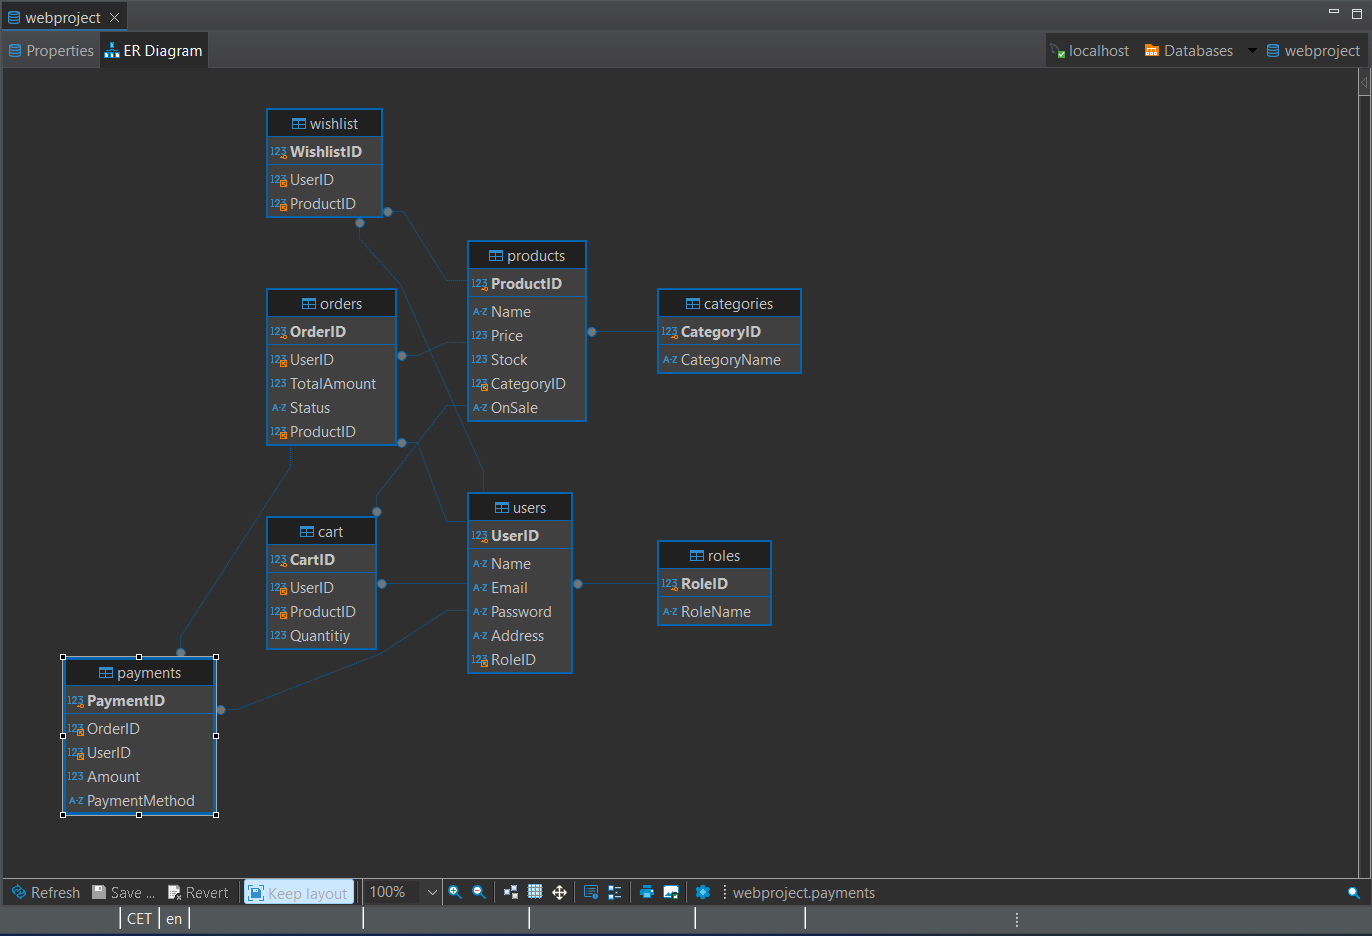
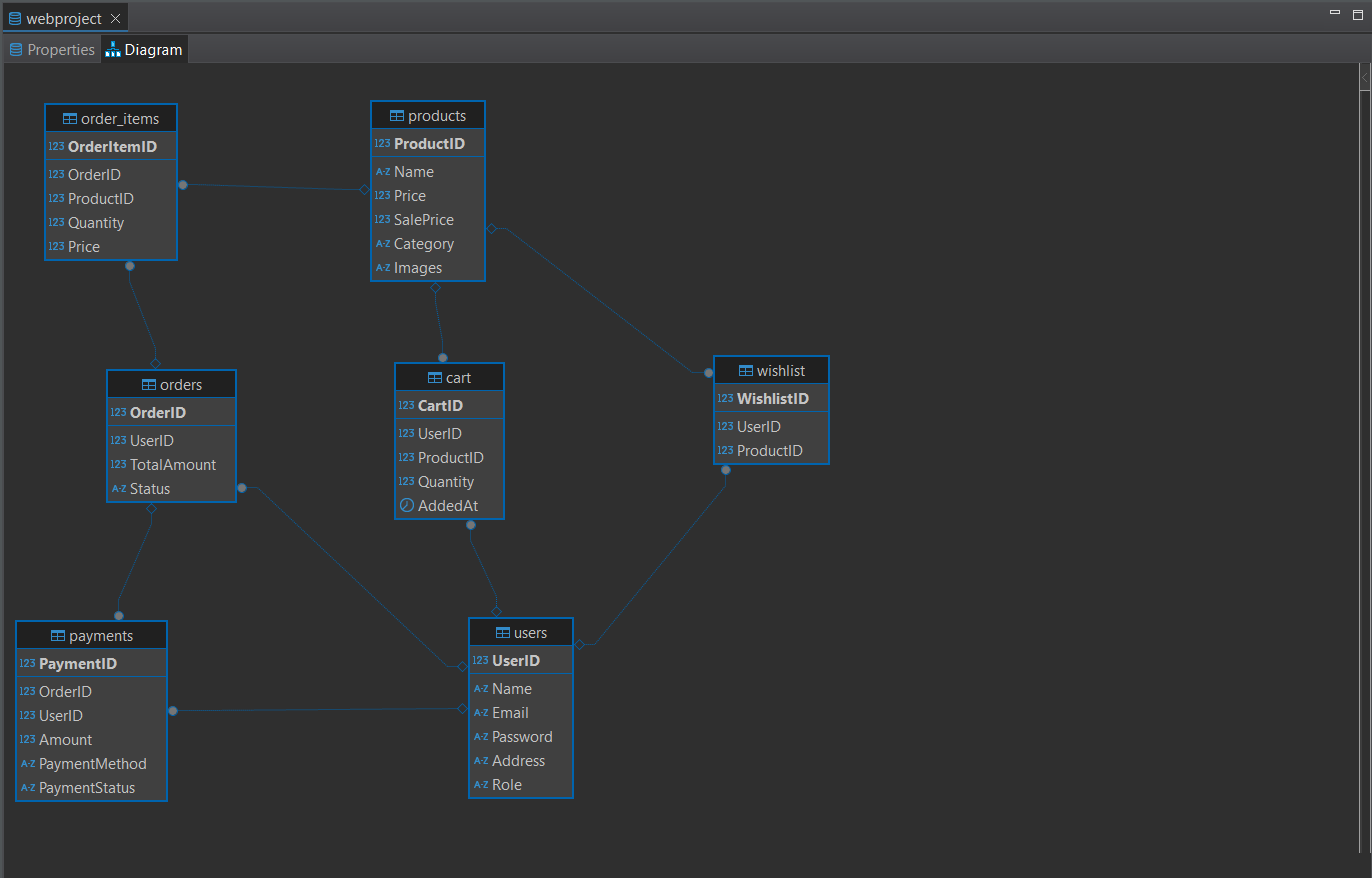
a

diff --git a/frontend/views/register.html b/frontend/views/register.html
@@ -2,22 +2,22 @@
     <div class="d-flex justify-content-center align-items-center min-vh-100 mt-5 mb-5">
         <div class="card p-4 shadow-lg" style="width: 400px;">
             <h3 class="text-center mb-4">Register</h3>
-            <form id="registerForm" onsubmit="handleRegister(event)">
+            <form id="registerForm" onsubmit="handleRegister(event)" method="post">
                 <div class="mb-3">
                     <label for="registerName" class="form-label">Name</label>
-                    <input type="text" class="form-control input-focus" id="registerName" required>
+                    <input type="text" class="form-control input-focus" id="registerName" name="Name" required>
                 </div>
                 <div class="mb-3">
                     <label for="registerEmail" class="form-label">Email</label>
-                    <input type="email" class="form-control input-focus" id="registerEmail" required>
+                    <input type="email" class="form-control input-focus" id="registerEmail" name="Email" required>
                 </div>
                 <div class="mb-3">
                     <label for="registerAddress" class="form-label">Address</label>
-                    <input type="text" class="form-control input-focus" id="registerAddress" required>
+                    <input type="text" class="form-control input-focus" id="registerAddress" name="Address" required>
                 </div>
                 <div class="mb-3">
                     <label for="password" class="form-label">Password</label>
-                    <input type="password" class="form-control input-focus" id="password" required>
+                    <input type="password" class="form-control input-focus" id="password" name="Password" required>
                 </div>
                 <div class="mb-3">
                     <label for="confirmPassword" class="form-label">Confirm Password</label>
@@ -26,7 +26,7 @@
                 </div>
                 <div class="mb-3">
                     <label for="registerRole" class="form-label">Role</label>
-                    <select class="form-select" id="registerRole" required onchange="toggleAdminPasswordField()">
+                    <select class="form-select" id="registerRole" name="Role" required onchange="toggleAdminPasswordField()">
                         <option value="Customer" selected>Customer</option>
                         <option value="Admin">Admin</option>
                     </select>

diff --git a/frontend/js/scripts.js b/frontend/js/scripts.js
@@ -469,11 +469,11 @@ function loadProductDetails(productId) {
 }
 
 function displayUserProfile() {
-    var user = JSON.parse(localStorage.getItem("user"));
-    document.getElementById("name").value = user.name;
-    document.getElementById("email").value = user.email;
-    document.getElementById("address").value = user.address;
-    document.getElementById("role").value = user.role;
+    const user = JSON.parse(localStorage.getItem("loggedInUser")) || {};
+    document.getElementById("name").value = user.name || '';
+    document.getElementById("email").value = user.email || '';
+    document.getElementById("address").value = user.address || '';
+    document.getElementById("role").value = user.role || '';
 }
 
 function handleRegister(event) {
@@ -533,19 +533,15 @@ function logout() {
     localStorage.removeItem('loggedInUser');
     resetProfile();
     updateNavBar();
-    window.location.reload();
+    window.location.href = 'index.html';
 }
 
 function resetProfile() {
-    const nameField = document.getElementById("name");
-    const emailField = document.getElementById("email");
-    const addressField = document.getElementById("address");
-    const roleField = document.getElementById("role");
-
-    if (nameField) nameField.value = '';
-    if (emailField) emailField.value = '';
-    if (addressField) addressField.value = '';
-    if (roleField) roleField.value = '';
+    const fields = ["name", "email", "address", "role"];
+    fields.forEach(fieldId => {
+        const field = document.getElementById(fieldId);
+        if (field) field.value = '';
+    });
 }
 
 function updateNavBar() {

diff --git a/backend/dao/BaseDao.php b/backend/dao/BaseDao.php
@@ -1,0 +1,52 @@
+<?php
+    require_once __DIR__ . "/config.php";
+
+    class BaseDao {
+        protected $table;
+        protected $connection;
+
+        public function __construct($table) {
+            $this->table = $table;
+            $this->connection = Database::connect();
+        }
+
+        public function getAll() {
+            $stmt = $this->connection->prepare("SELECT * FROM " . $this->table);
+            $stmt->execute();
+            return $stmt->fetchAll();
+        }
+
+        public function getById($id) {
+            $stmt = $this->connection->prepare("SELECT * FROM " . $this->table . " WHERE id = :id");
+            $stmt->bindParam(':id', $id);
+            $stmt->execute();
+            return $stmt->fetch();
+        }
+
+        public function insert($data) {
+            $columns = implode(", ", array_keys($data));
+            $placeholders = ":" . implode(", :", array_keys($data));
+            $sql = "INSERT INTO " . $this->table . " ($columns) VALUES ($placeholders)";
+            $stmt = $this->connection->prepare($sql);
+            return $stmt->execute($data);
+        }
+
+        public function update($id, $data) {
+            $fields = "";
+            foreach ($data as $key => $value) {
+                $fields .= "$key = :$key, ";
+            }
+            $fields = rtrim($fields, ", ");
+            $sql = "UPDATE " . $this->table . " SET $fields WHERE id = :id";
+            $stmt = $this->connection->prepare($sql);
+            $data['id'] = $id;
+            return $stmt->execute($data);
+        }
+
+        public function delete($id) {
+            $stmt = $this->connection->prepare("DELETE FROM " . $this->table . " WHERE id = :id");
+            $stmt->bindParam(':id', $id);
+            return $stmt->execute();
+        }
+    }
+?>

diff --git a/backend/dao/ProductsDao.php b/backend/dao/ProductsDao.php
@@ -1,0 +1,29 @@
+<?php
+    require_once 'BaseDao.php';
+    class ProductsDao extends BaseDao {
+        public function __construct() {
+            parent::__construct("products");
+        }
+
+        public function getByProductName($productName) {
+            $stmt = $this->connection->prepare("select * from products where ProductName = :ProductName");
+            $stmt->bindParam(':ProductName', $productName);
+            $stmt->execute();
+            return $stmt->fetch();
+        }
+
+        public function getByCategoryId($categoryId ) {
+            $stmt = $this->connection->prepare("select * from products where CategoryID = :CategoryID");
+            $stmt->bindParam(':CategoryID', $categoryId);
+            $stmt->execute();
+            return $stmt->fetchAll();
+        }
+
+        public function getByOnSale($onSale) {
+            $stmt = $this->connection->prepare("select * from products where OnSale = :OnSale");
+            $stmt->bindParam(':OnSale', $onSale);
+            $stmt->execute();
+            return $stmt->fetchAll();
+        }
+    }
+?>

diff --git a/backend/dao/config.php b/backend/dao/config.php
@@ -1,0 +1,28 @@
+<?php
+    class Database {
+        private static $host = 'localhost';
+        private static $dbName = 'webproject';
+        private static $username = 'root';
+        private static $password = 'Ammarudin';
+        private static $connection = null;
+
+        public static function connect() {
+            if (self::$connection === null) {
+                try {
+                    self::$connection = new PDO(
+                        "mysql:host=" . self::$host . ";dbname=" . self::$dbName,
+                        self::$username,
+                        self::$password,
+                        [
+                            PDO::ATTR_ERRMODE => PDO::ERRMODE_EXCEPTION,
+                            PDO::ATTR_DEFAULT_FETCH_MODE => PDO::FETCH_ASSOC
+                        ]
+                    );
+                } catch (PDOException $e) {
+                    die("Connection failed: " . $e->getMessage());
+                }
+            }
+            return self::$connection;
+        }
+    }
+?>

diff --git a/backend/dao/OrderItemsDao.php b/backend/dao/OrderItemsDao.php
@@ -1,0 +1,22 @@
+<?php
+    require_once 'BaseDao.php';
+    class OrderItemsDao extends BaseDao {
+        public function __construct() {
+            parent::__construct("orderitems");
+        }
+
+        public function getByOrderId($orderId) {
+            $stmt = $this->connection->prepare("select * from orderitems where OrderID = :OrderID");
+            $stmt->bindParam(':OrderID', $orderId);
+            $stmt->execute();
+            return $stmt->fetchAll();
+        }
+
+        public function getByProductId($productId){
+            $stmt = $this->connection->prepare("select * from orderitems where ProductID = :ProductID");
+            $stmt->bindParam(':ProductID', $productId);
+            $stmt->execute();
+            return $stmt->fetchAll();
+        }
+    }
+?>

diff --git a/backend/dao/PaymentsDao.php b/backend/dao/PaymentsDao.php
@@ -1,0 +1,22 @@
+<?php
+    require_once 'BaseDao.php';
+    class PaymentsDao extends BaseDao{
+        public function __construct(){
+            parent::__construct("payments");
+        }
+
+        public function getByOrderId($orderId){
+            $stmt = $this->connection->prepare("select * from payments where OrderID = :OrderID");
+            $stmt->bindParam(':OrderID', $orderId);
+            $stmt->execute();
+            return $stmt->fetchAll();
+        }
+
+        public function getByPaymentId($paymentId){
+            $stmt = $this->connection->prepare("select * from payments where PaymentID = :PaymentID");
+            $stmt->bindParam(':PaymentID', $paymentId);
+            $stmt->execute();
+            return $stmt->fetch();
+        }
+    }
+?>

diff --git a/backend/dao/OrdersDao.php b/backend/dao/OrdersDao.php
@@ -1,0 +1,22 @@
+<?php
+    require_once 'BaseDao.php';
+    class OrdersDao extends BaseDao {
+        public function __construct() {
+            parent::__construct("orders");
+        }
+
+        public function getByUserId($userId) {
+            $stmt = $this->connection->prepare("select * from orders where UserID = :UserID");
+            $stmt->bindParam(':UserID', $userId);
+            $stmt->execute();
+            return $stmt->fetchAll();
+        }
+
+        public function getByStatus($status){
+            $stmt = $this->connection->prepare("select * from orders where Status = :Status");
+            $stmt->bindParam(':Status', $status);
+            $stmt->execute();
+            return $stmt->fetchAll();
+        }
+    }
+?>

diff --git a/backend/dao/CartDao.php b/backend/dao/CartDao.php
@@ -1,0 +1,22 @@
+<?php
+    require_once 'BaseDao.php';
+    class CartDao extends BaseDao {
+        public function __construct() {
+            parent::__construct("cart");
+        }
+
+        public function getByUserId($userId) {
+            $stmt = $this->connection->prepare("select * from cart where UserID = :UserID");
+            $stmt->bindParam(':UserID', $userId);
+            $stmt->execute();
+            return $stmt->fetchAll();
+        }
+
+        public function getByAddedAt($addedAt){
+            $stmt = $this->connection->prepare("select * from cart where AddedAt = :AddedAt");
+            $stmt->bindParam(':AddedAt', $addedAt);
+            $stmt->execute();
+            return $stmt->fetchAll();
+        }
+    }
+?>

diff --git a/backend/dao/WishlistDao.php b/backend/dao/WishlistDao.php
@@ -1,0 +1,16 @@
+<?php
+    require_once 'BaseDao.php';
+
+    class WishlistDao extends BaseDao {
+        public function __construct() {
+            parent::__construct("wishlist");
+        }
+
+        public function getByUserId($userId) {
+            $stmt = $this->connection->prepare("select * from wishlist where UserID = :UserID");
+            $stmt->bindParam(':UserID', $userId);
+            $stmt->execute();
+            return $stmt->fetchAll();
+        }
+    }
+?>

diff --git a/backend/dao/UserDao.php b/backend/dao/UserDao.php
@@ -1,0 +1,16 @@
+<?php
+    require_once 'BaseDao.php';
+
+    class UserDao extends BaseDao {
+        public function __construct() {
+            parent::__construct("users");
+        }
+
+        public function getByEmail($email) {
+            $stmt = $this->connection->prepare("SELECT * FROM users WHERE Email = :Email");
+            $stmt->bindParam(':Email', $email);
+            $stmt->execute();
+            return $stmt->fetch();
+        }
+    }
+?>

diff --git a/backend/dao/test.php b/backend/dao/test.php
@@ -1,0 +1,15 @@
+<?php
+    require_once 'UserDao.php';
+    $userDao = new UserDao();
+    $userDao->insert([
+        'UserID' => 1,
+        'Name' => 'John Doe',
+        'Email' => 'john@example.com',
+        'Password' => password_hash('password123', PASSWORD_DEFAULT),
+        'Address' => '123 Main St, Springfield, IL 62701',
+        'Role' => 'Customer'
+    ]);
+     
+    $users = $userDao->getAll();
+    print_r($users);
+?>
